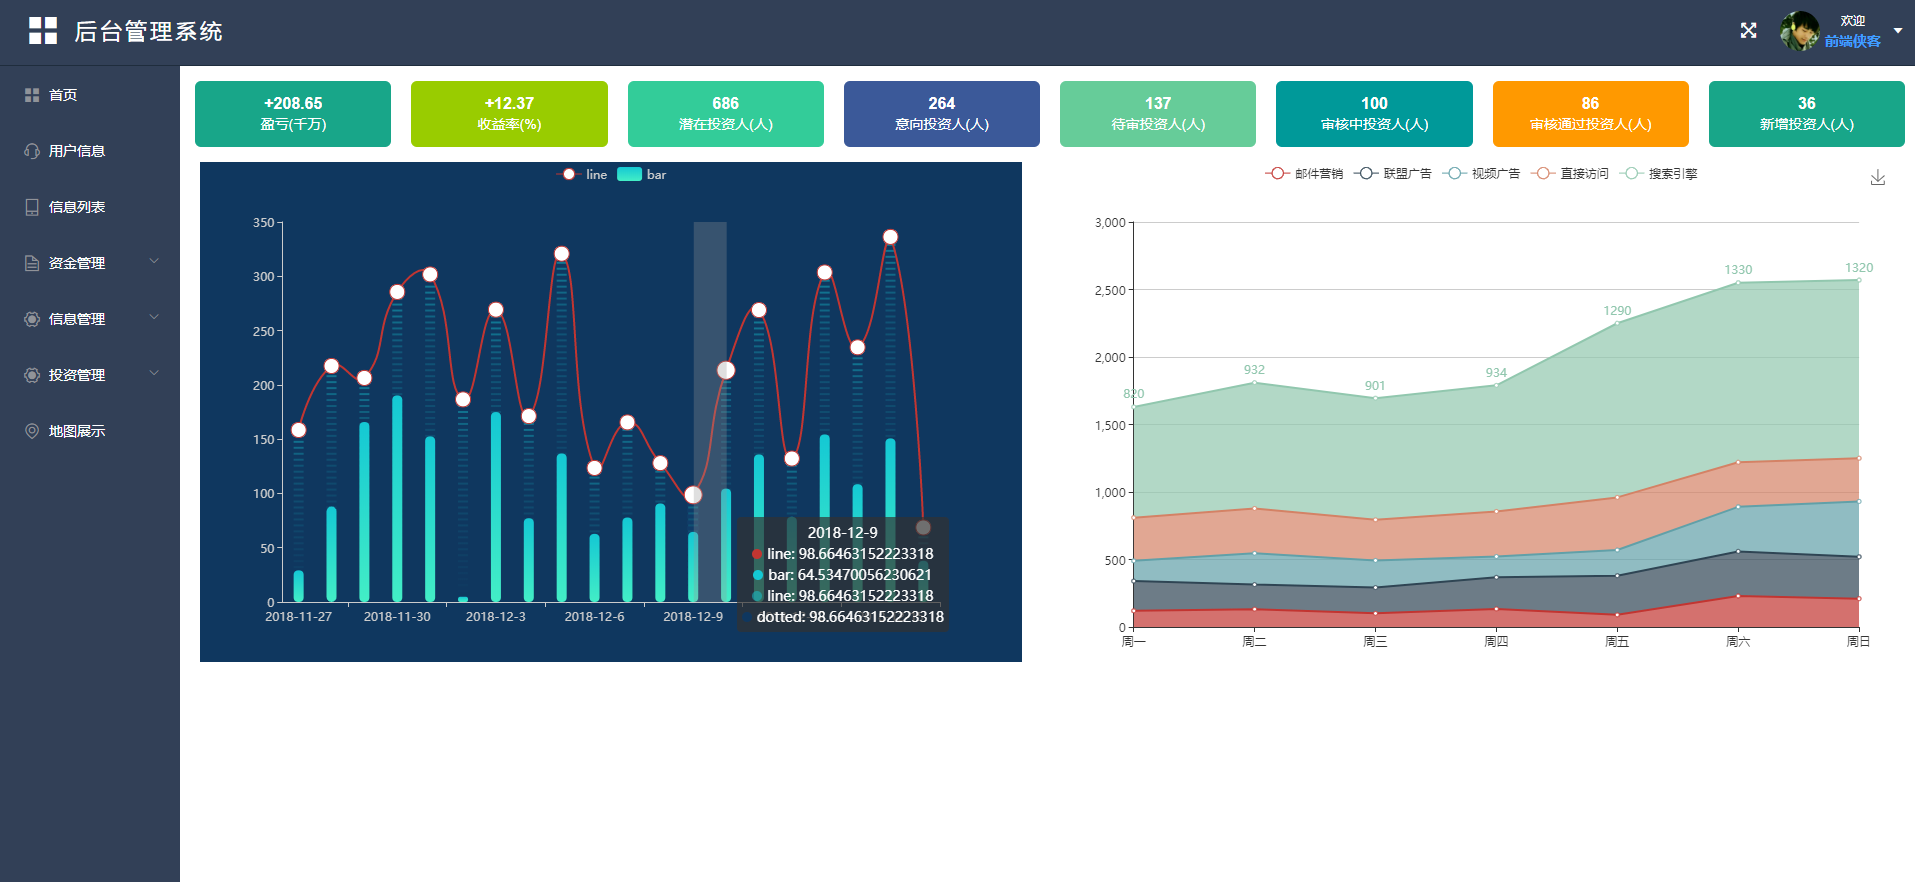
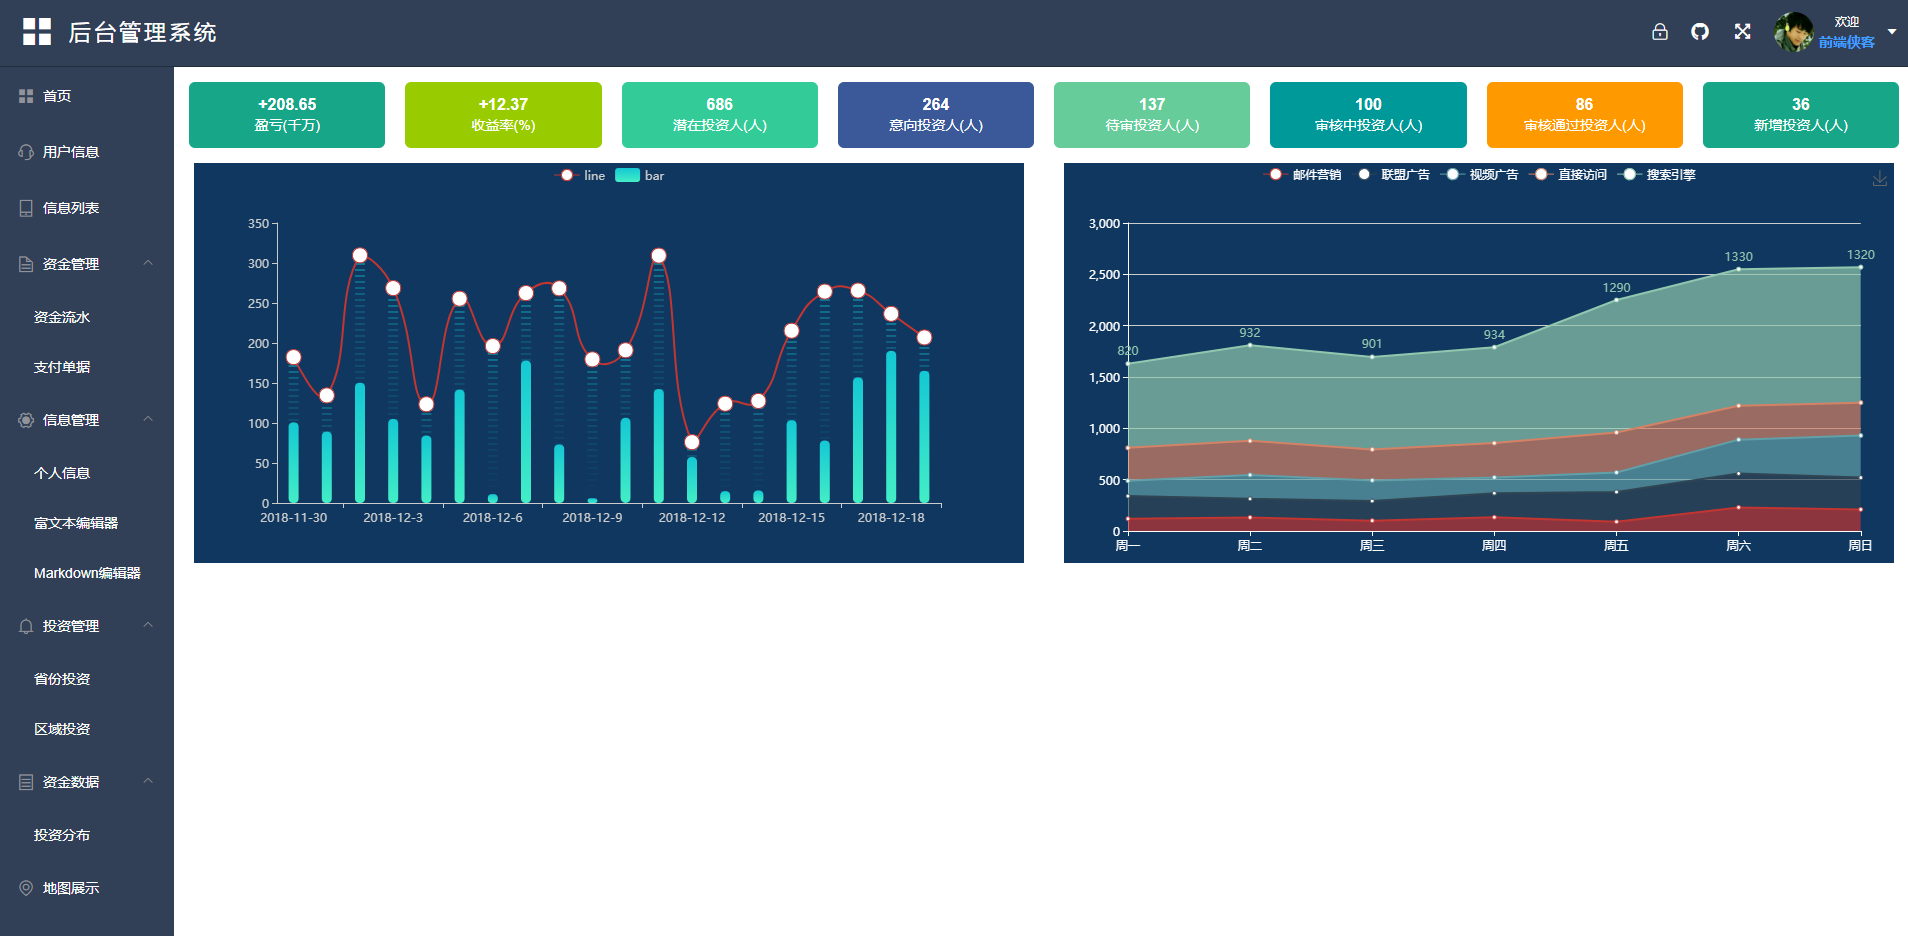
add meadme

diff --git a/README.md b/README.md
@@ -35,13 +35,13 @@
 	- 404
 
 ## 项目编译和运行
-  1. 可以直接在git上下载项目源码。把github下载到本地，
+  + 可以直接在git上下载项目源码。把github下载到本地，
 		git clone [](https://github.com/MrZHLF/vue-admin.git)
-	2. 进入node-api-element当前页面初始化
+	+ 进入node-api-element当前页面初始化
 		cnpm install
-	3.进入client项目目录中
+	+ 进入client项目目录中
 		cnpm install
-	4. 所有依赖安装成功后执行启动命令在当前目录启动,不要在client进行启动，已经配置好前后端联调
+  + 所有依赖安装成功后执行启动命令在当前目录启动,不要在client进行启动，已经配置好前后端联调
 	  npm run dev 
 	  如果显示一下内容说明安装成功
 	  I  Your application is running here: http://localhost:8080
@@ -49,7 +49,7 @@
 ## 成果展示
  ![avatar](./img/1.png)
  ![avatar](./img/2.png)
-
+ ![avatar](./img/3.png)
  
  
 更新中...
